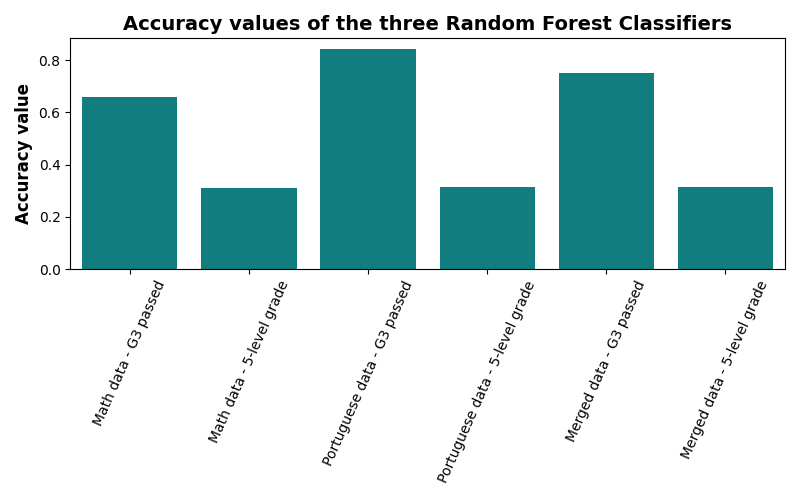
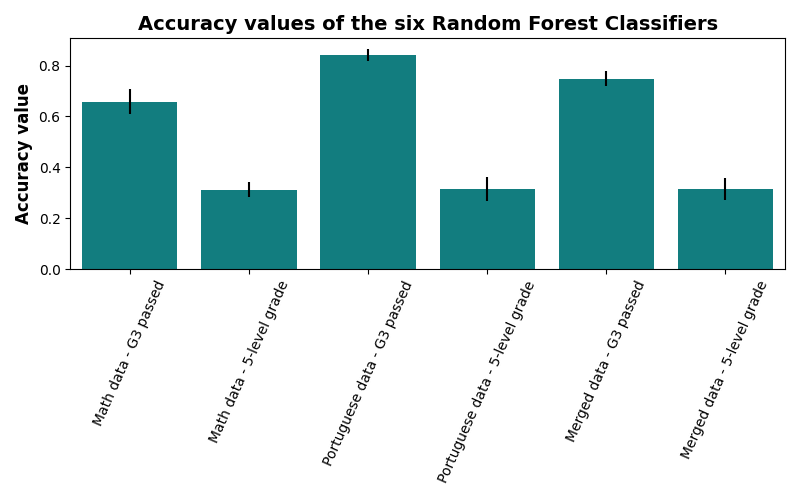
update

diff --git a/script.py b/script.py
@@ -22,9 +22,15 @@ data_port = pd.read_csv('./data/Portuguese.csv')
 missing_val_math = data_math.isnull().sum().sum()
 missing_val_port = data_port.isnull().sum().sum()
 
+print(f'There are {missing_val_port} missing values in the Portuguese data and {missing_val_math} '
+      f'missing values in the Math data')
+
 # Check for duplicated values
 dupl_port = data_port[data_port.duplicated()].size
 dupl_math = data_math[data_math.duplicated()].size
+
+print(f'There are {dupl_math} duplicates in the Math data and {dupl_port} '
+      f'duplicates in the Portuguese data')
 
 # Create a new column that indicates if G3 is passed or not
 data_math['G3 passed'] = data_math['G3'].apply(lambda x: 'Passed' if x >= 10 else 'Failed')
@@ -37,6 +43,7 @@ data_math['5-level grade'] = pd.cut(data_math['G3'], bins=bins, labels=labels, r
 data_port['5-level grade'] = pd.cut(data_port['G3'], bins=bins, labels=labels, right=False)
 
 # Get a description of the numerical values of the datasets
+print('Description of the Datasets:')
 data_math_description = data_math.describe()
 data_port_description = data_port.describe()
 
@@ -53,6 +60,7 @@ data_math[cat_cols] = data_math[cat_cols].astype('category')
 data_port[cat_cols] = data_port[cat_cols].astype('category')
 
 # Check if continuous variables are normally distributed
+print('Checking for Normality of the numerical columns:')
 print('Maths:')
 for var in num_cols:
     print(f"Shapiro-Wilk for {var}, p-value: {sts.shapiro(data_math[var]).pvalue: .10f}")
@@ -80,17 +88,17 @@ def get_dataset_name(df):
 
 
 # Function to plot a variable as histogram
-def plot_data(data, column):
+def plot_data(data, column, output_folder):
     plt.figure(figsize=(10, 8))
     sns.histplot(data[column], binwidth=1, discrete=True, color='#008F91')
     plt.title(f"Distribution of\n{titles[column]} in {get_dataset_name(data)}", size=14, fontweight='bold')
     plt.xlabel(xlabels[column], fontweight='bold', size=16)
     plt.ylabel('Count', fontweight='bold', size=16)
-    plt.savefig(f'./output/{get_dataset_name(data)}/{column}_histplot')
+    plt.savefig(output_folder)
     plt.close()
 
 
-# Plot the distributions of the columns as histograms to get an overview
+# Define Titles and labels for the plots
 titles = {
     "school": "visited school",
     "sex": "sex",
@@ -168,26 +176,32 @@ xlabels = {
 
 # Create paths directories for plots
 for path in [f'{os.getcwd()}/output',
+             f'{os.getcwd()}/output/Grade plots',
+             f'{os.getcwd()}/output/Random Forest',
+             f'{os.getcwd()}/output/Linear Regression'
              f'{os.getcwd()}/output/{get_dataset_name(data_math)}',
              f'{os.getcwd()}/output/{get_dataset_name(data_port)}',
-             f'{os.getcwd()}/output/{get_dataset_name(data_merged)}']:
+             f'{os.getcwd()}/output/{get_dataset_name(data_merged)}',
+             f'{os.getcwd()}/output/class reports',
+             f'{os.getcwd()}/output/Decision Trees',
+             f'{os.getcwd()}/output/DT plots']:
     if not os.path.exists(path):
         os.makedirs(path)
 
 # Plot the grade distributions as histograms
 for data in [data_math, data_port, data_merged]:
     for column in ['G3', 'G3 passed', '5-level grade']:
-        plot_data(data, column)
+        plot_data(data, column, f'./output/Grade plots')
 
 
-#Define a linear Regression Algorithm and directly plot the data
+# Define a linear Regression Algorithm and directly plot the data
 def perform_linear_regression_and_plot(data, subject):
-    # Perform one-hot encoding on the categorical features
-    data_encoded = pd.get_dummies(data, columns=cat_cols, drop_first=True, dtype=int)
-
-    # Construct features (X) and labels (y)
-    X = data_encoded.drop(["G3", "G3 passed", "5-level grade", "G1", "G2", 'age'], axis=1)
-    y = data_encoded['G3']
+    # Select Features and Labels
+    X = data.drop(["G3", "G3 passed", "5-level grade", "G1", "G2", 'age'], axis=1)  # Features
+    y = data['G3']  # Label
+    remaining_cat_cols = [col for col in cat_cols if col in X.columns]
+    # one hot encoding
+    X = pd.get_dummies(X, columns=remaining_cat_cols, drop_first=True)
 
     # Update num_cols based on actual numerical columns in X (skip non-existent columns)
     num_cols = X.select_dtypes(include=np.number).columns.tolist()
@@ -197,19 +211,18 @@ def perform_linear_regression_and_plot(data, subject):
     X[num_cols] = sc.fit_transform(X[num_cols])
 
     # Convert pandas DataFrame to numpy array
-    X = np.array(X)
-    y = np.array(y)
-
+    X_array = np.array(X)
+    y_array = np.array(y)
     # Initialize the model using sklearn
     LR = LinearRegression()
 
     # Perform cross-validation
     kf = KFold(n_splits=5, shuffle=True, random_state=47)
-    r2_scores = cross_val_score(LR, X, y, cv=kf, scoring='r2')
-    rmse_scores = -cross_val_score(LR, X, y, cv=kf, scoring='neg_root_mean_squared_error')
+    r2_scores = cross_val_score(LR, X_array, y_array, cv=kf, scoring='r2')
+    rmse_scores = -cross_val_score(LR, X_array, y_array, cv=kf, scoring='neg_root_mean_squared_error')
 
     # Train-test split to visualize predictions
-    X_train, X_test, y_train, y_test = train_test_split(X, y, test_size=0.2, random_state=47)
+    X_train, X_test, y_train, y_test = train_test_split(X_array, y_array, test_size=0.2, random_state=47)
     LR.fit(X_train, y_train)
     y_pred = LR.predict(X_test)
 
@@ -229,7 +242,7 @@ def perform_linear_regression_and_plot(data, subject):
     plt.tight_layout()
 
     # Save the figure with subject-specific filename
-    plt.savefig(os.path.join(f'./output/', f"LinearRegression_{subject}.png"), dpi=100)
+    plt.savefig(os.path.join(f'./output/Linear Regression/', f"LinearRegression_{subject}.png"), dpi=100)
     plt.close()
 
     # Report the performance metrics
@@ -242,7 +255,7 @@ def perform_linear_regression_and_plot(data, subject):
     # Extract main features (coefficients)
     coefficients = LR.coef_
     feature_importance_df = pd.DataFrame({
-        "Feature": data_encoded.drop(["G3", "G3 passed", "5-level grade", "G1", "G2", 'age'], axis=1).columns,
+        "Feature": X.columns.tolist(),
         "Coefficient": coefficients,
         "Absolute Coefficient": np.abs(coefficients)
     }).sort_values(by="Absolute Coefficient", ascending=False)
@@ -277,8 +290,10 @@ def RF_regressor(data, label):
     reg_feature_importances = np.zeros(X.shape[1])
 
     # Cross Validation
+
     cv = StratifiedKFold(n_splits=5, shuffle=True, random_state=47)
     fold = 1
+    print(f'Performing Cross Validation for {label} in {get_dataset_name(data)}...')
     # Conduct Cross Validation
     for train_index, test_index in cv.split(X, y):
         print('Fold: ', fold)
@@ -325,6 +340,7 @@ def RF_regressor(data, label):
     mean_metrics = {key: np.mean(values) for key, values in metrics.items()}
     std_metrics = {key: np.std(values) for key, values in metrics.items()}
 
+    print(f'Performance metrics for {get_dataset_name(data)} and {label}:')
     for key, value in mean_metrics.items():
         print('{}: {:.3f} ± {:.3f}'.format(key.capitalize(), value, std_metrics[key]))
 
@@ -349,6 +365,7 @@ def RF_classifier(data, label):
     cv = StratifiedKFold(n_splits=5, shuffle=True, random_state=47)
     fold = 1
 
+    print(f'Performing Cross Validation for {label} in {get_dataset_name(data)}...')
     # Conduct Cross Validation
     for train_index, test_index in cv.split(X, y):
         print('Fold:', fold)
@@ -409,6 +426,7 @@ def RF_classifier(data, label):
     mean_metrics = {key: np.mean(values) for key, values in metrics.items()}
     std_metrics = {key: np.std(values) for key, values in metrics.items()}
 
+    print(f'Performance metrics for {get_dataset_name(data)} and {label}:')
     for key, value in mean_metrics.items():
         print('{}: {:.3f} ± {:.3f}'.format(key, value, std_metrics[key]))
 
@@ -436,6 +454,7 @@ features_overview = {}
 
 # conduct several random forest iterations with different labels and different data
 for data in [data_math, data_port, data_merged]:
+    print(f'Random Forest Regressor for {get_dataset_name(data)}')
     reg_mean_metrics, reg_std_metrics, reg_best_params, reg_feature_importances_df = RF_regressor(data, 'G3')
     # get the parameters for the different models
     for key in reg_best_params:
@@ -454,6 +473,7 @@ for data in [data_math, data_port, data_merged]:
     features_overview[f'{get_dataset_name(data)}-G3_features'] = reg_feature_importances_df
     # conduct a classification model for each dataset and label
     for label in ['G3 passed', '5-level grade']:
+        print(f'Random Forest Classifier for {get_dataset_name(data)}')
         clf_mean_metrics, clf_std_metrics, clf_best_params, clf_feature_importances_df = RF_classifier(data, label)
         for key in clf_best_params:
             model_parameters.loc[f'{get_dataset_name(data)} Classification - {label}', key] = clf_best_params[key]
@@ -471,6 +491,8 @@ for data in [data_math, data_port, data_merged]:
         # get the feature importances into a dictionary
         features_overview[f'{get_dataset_name(data)}-{label}_features'] = clf_feature_importances_df
 
+print(overview)
+
 # Plot the R2 values of all RF-Regressions
 plt.figure(figsize=(8, 5))
 sns.barplot(data=overview.dropna(subset='R2'), x=overview.dropna(subset='R2').index, y='R2',
@@ -484,23 +506,12 @@ plt.savefig(f'./output/R^2 values RF_regressor')
 plt.figure(figsize=(8, 5))
 sns.barplot(data=overview.dropna(subset='Accuracy'), x=overview.dropna(subset='Accuracy').index, y='Accuracy',
             yerr=overview.dropna(subset='Accuracy')['Accuracy-std'], color='#008F91')
-plt.title('Accuracy values of the three Random Forest Classifiers', fontweight='bold', size=14)
+plt.title('Accuracy values of the six Random Forest Classifiers', fontweight='bold', size=14)
 plt.ylabel('Accuracy value', fontweight='bold', size=12)
 plt.xticks(rotation=66)
 plt.tight_layout()
 plt.savefig(f'./output/Accuracy values RF_classifier')
 
-# Plot a boxplot with regression line over the failures and G3 in data_port
-plt.figure(figsize=(8, 5))
-sns.boxplot(x='failures', y='G3', data=data_port, color='#008F91', )
-sns.regplot(x='failures', y='G3', data=data_port, scatter=False, ci=None, color='red',
-            line_kws={'label': 'Regression Line'})
-plt.title(f'G3 score over failures in Portuguese data with regression line', fontweight='bold', size=14)
-plt.xlabel('Failures', fontweight='bold', size=12)
-plt.ylabel('G3 score', fontweight='bold', size=12)
-plt.tight_layout()
-plt.savefig(f'./output/Portuguese data_failures_over_G3')
-plt.close()
 
 # Plot a boxplot with regression line over the failures and G3 in data_merged
 plt.figure(figsize=(8, 5))
@@ -514,35 +525,7 @@ plt.tight_layout()
 plt.savefig(f'./output/Merged data_failures_over_G3')
 plt.close()
 
-# Plot a boxplot over the failures and G3 passed in data_port
-plt.figure(figsize=(8, 5))
-sns.violinplot(x='failures', y='G3 passed', data=data_port, color='#008F91', cut=0, density_norm='area')
-plt.title(f'G3 passing over failures in Portuguese data', fontweight='bold', size=14)
-plt.xlabel('Failures', fontweight='bold', size=12)
-plt.ylabel('G3 passed', fontweight='bold', size=12)
-plt.tight_layout()
-plt.savefig(f'./output/Portuguese data_failures_over_G3 passed')
-plt.close()
 
-# Plot a violinplot over the failures and G3 passed in data_merged
-plt.figure(figsize=(8, 5))
-sns.violinplot(x='failures', y='G3 passed', data=data_merged, color='#008F91', cut=0, density_norm='area')
-plt.title(f'G3 passing over failures in Merged data', fontweight='bold', size=14)
-plt.xlabel('Failures', fontweight='bold', size=12)
-plt.ylabel('G3 passed', fontweight='bold', size=12)
-plt.tight_layout()
-plt.savefig(f'./output/Merged data_failures_over_G3 passed')
-plt.close()
-
-# Plot a boxplot over the absences and the 5-level grade in data_math
-plt.figure(figsize=(8, 5))
-sns.boxplot(y='absences', x='5-level grade', data=data_math, color='#008F91', )
-plt.title(f'5-level grade over absences in Math data', fontweight='bold', size=14)
-plt.ylabel('Absences', fontweight='bold', size=12)
-plt.xlabel('5-level grade', fontweight='bold', size=12)
-plt.tight_layout()
-plt.savefig(f'./output/Math data_failures_over_5-level grade')
-plt.close()
 
 ### Decision Trees Code ###
 
@@ -554,7 +537,6 @@ min_samples = 5
 x = ['Mathematics', 'Portuguese', 'Merged']
 n = 1
 
-### MATHEMATICS ###
 for target in targets:
 
     accuracies = {}
@@ -599,14 +581,15 @@ for target in targets:
     else:
         plt.title(f'Heatmap Classification Report Math {features[0]} and {features[1]} predicting {target}')
     plt.savefig(f'./output/class reports/Classification Report Math {features[0]} - {target}')
+    plt.close()
 
     # visualize
     plt.figure(n, figsize=(30, 20))
     n += 1
     tree.plot_tree(clf_math, filled=True, feature_names=X_math.columns, class_names=clf_math.classes_.astype(str))
     plt.title(f'Decision Tree Mathematics - {target}')
-    plt.savefig(f'/output/Decision Trees/decision tree math - {features[0]}-{target}.jpg', format='jpg')
-
+    plt.savefig(f'./output/Decision Trees/decision tree math - {features[0]}-{target}.jpg', format='jpg')
+    plt.close()
     ### PORTUGUESE ###
 
     # separate features and target
@@ -645,8 +628,9 @@ for target in targets:
     if len(features) == 1:
         plt.title(f'Heatmap Classification Report Port {features[0]} predicting {target}')
     else:
-        plt.title(f'Heatmap Classificatino Report Port {features[0]} and {features[1]} predicting {target}')
+        plt.title(f'Heatmap Classification Report Port {features[0]} and {features[1]} predicting {target}')
     plt.savefig(f'./output/class reports/Classification Report Port {features} - {target}')
+    plt.close()
 
     # visualize
     plt.figure(n, figsize=(30, 20))
@@ -654,6 +638,7 @@ for target in targets:
     tree.plot_tree(clf_port, filled=True, feature_names=X_port.columns, class_names=clf_port.classes_.astype(str))
     plt.title(f'Decision Tree Portuguese - {target}')
     plt.savefig(f'./output/Decision Trees/decision tree port - {features[0]}-{target}.png', format='png')
+    plt.close()
 
     ### MIXED
 
@@ -695,6 +680,7 @@ for target in targets:
     else:
         plt.title(f'Heatmap Classification Report Merged {features[0]} and {features[1]} predicting {target}')
     plt.savefig(f'./output/class reports/Classification Report Merged {features} - {target}')
+    plt.close()
 
     # visualize
     plt.figure(n, figsize=(50, 35))
@@ -702,6 +688,7 @@ for target in targets:
     tree.plot_tree(clf_merged, filled=True, feature_names=X_merged.columns, class_names=clf_merged.classes_.astype(str))
     plt.title(f'Decision Tree Merged - {features[0]} - {target}')
     plt.savefig(f'./output/Decision Trees/decision tree merged - {features[0]}-{target}.png', format='png')
+    plt.close()
 
     plt.figure(n, figsize=(8, 6))
     n += 1
@@ -714,6 +701,7 @@ for target in targets:
         plt.title(f'Accuracies of {features[0]} and {features[1]} predicting {target}')
     else:
         plt.title(f'Accuracies of {features[0]} predicting {target}')
-    plt.savefig(f'./output/plots/accuracies {features} predicting {target}')
+    plt.savefig(f'./output/DT plots/accuracies {features} predicting {target}')
+    plt.close()
 
 """Finale Version 17.06. 5x5"""
